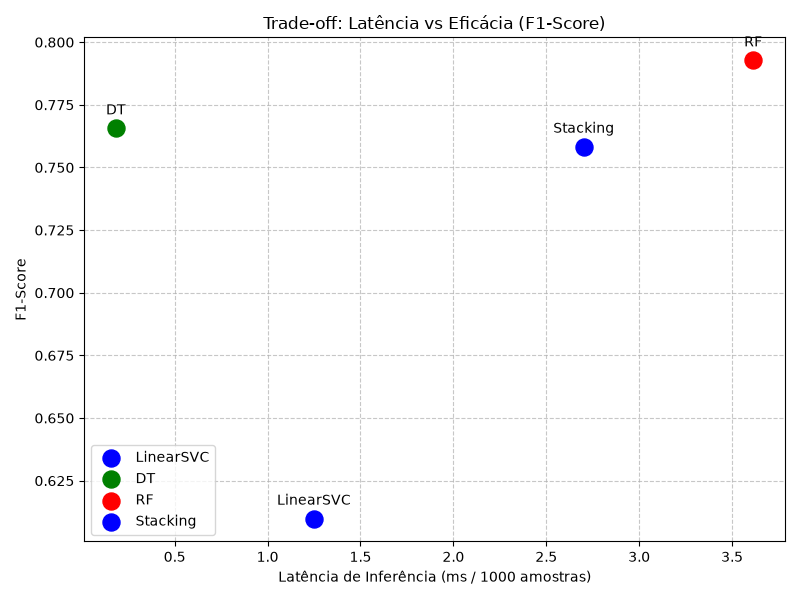
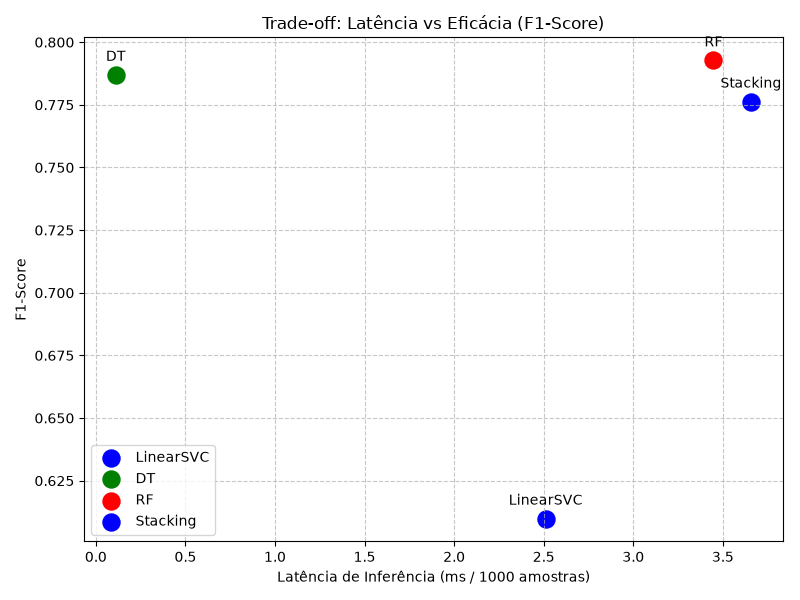
perf: otimizar hiperparâmetros da DecisionTree (entropy, ccp_alpha=0.0005, min_samples_split=10)

diff --git a/src/models.py b/src/models.py
@@ -40,9 +40,11 @@ def get_base_learners(random_state=42):
             random_state=random_state
         )),
         ('dt', DecisionTreeClassifier(
+            criterion='entropy',
             max_depth=15,
-            min_samples_split=5,
-            min_samples_leaf=2,
+            min_samples_split=10,
+            min_samples_leaf=4,
+            ccp_alpha=0.0005,
             class_weight='balanced',
             random_state=random_state
         )),
